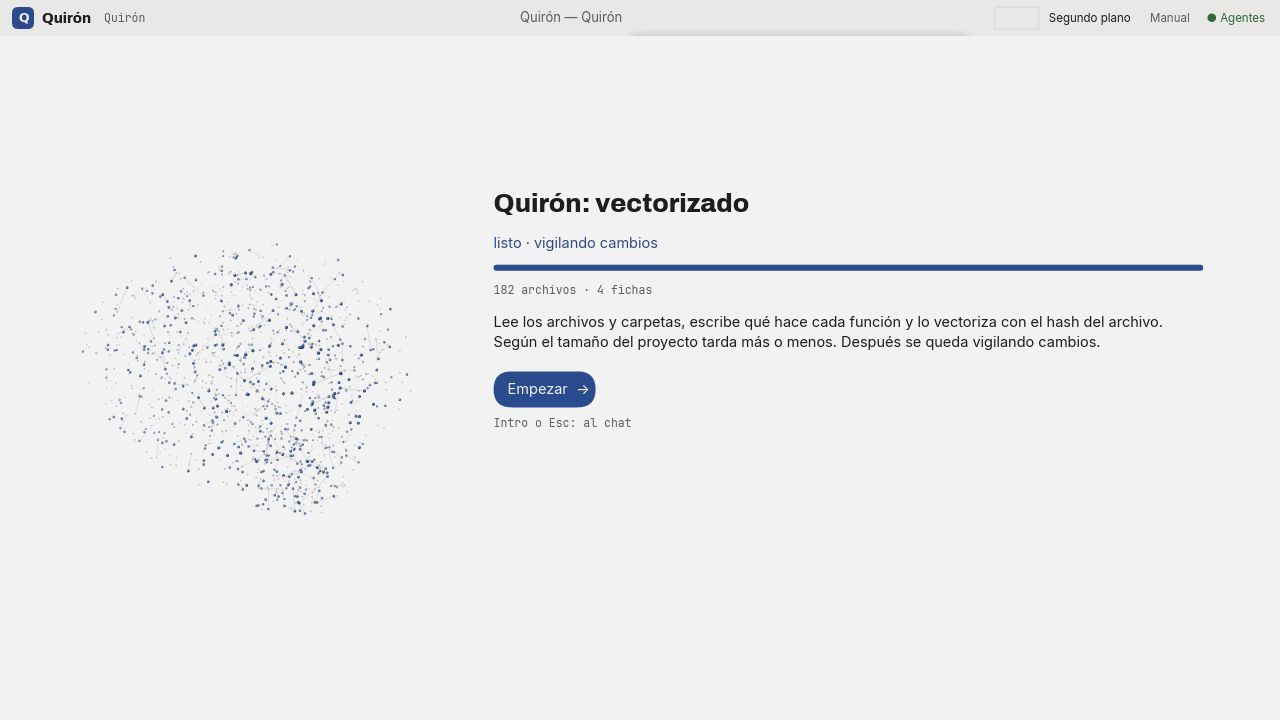
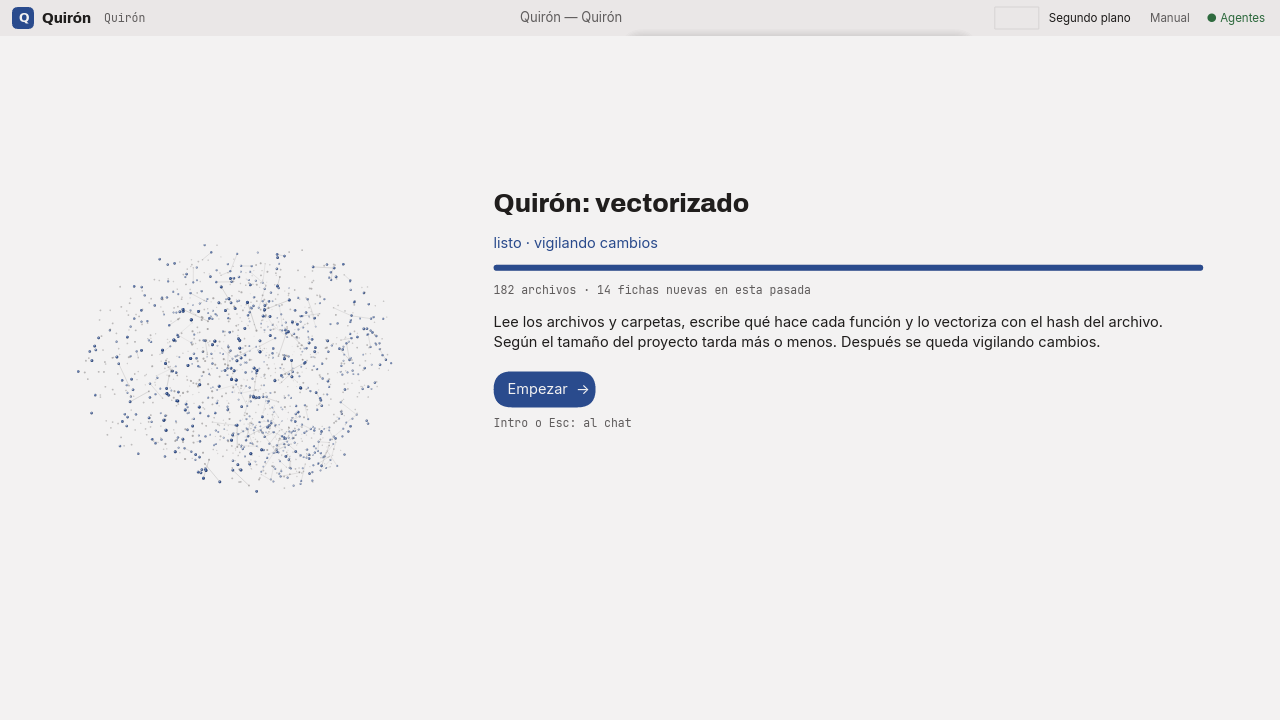
Vectorizando: el error del cerebro se enseña tal cual, y botones de cancelar y vectorizar de nuevo
- Una carpeta demasiado grande («10000 archivos / 64 MiB de texto; abre una
  subcarpeta») salía como «reintentando · 0/0»: ahora el mensaje va en rojo,
  con «Elegir otra carpeta» y «Seguir sin índice».
- «Cancelar la vectorización» para el monitor (DELETE /index/project/:id),
  el sondeo no lo reanuda solo y Segundo plano lo dice; en Agentes →
  Vectorizador, «Vectorizar» lo retoma («Vectorizar de nuevo» si va bien).
- Cliente: stop_project_index. Prueba de cancelar y reanudar. Gancho del
  arnés vectorizando-error para la captura.

Changed region(s): [[0.0625, 0.3667, 0.3125, 0.7028], [0.4688, 0.3972, 0.625, 0.4278]]

diff --git a/Quirón/llore_editor/crates/llore_ui/src/app.rs b/Quirón/llore_editor/crates/llore_ui/src/app.rs
@@ -648,6 +648,11 @@ pub enum ClickTargetAction {
     NewProjectAccept,
     NewProjectCancel,
     NewProjectContinue,
+    /// Vectorizando: cancelar la vectorización, elegir otra carpeta, o
+    /// (desde Agentes) vectorizar de nuevo.
+    NewProjectCancelIndex,
+    NewProjectPickOther,
+    IndexResume,
     Citation(Citation),
     /// Abre el archivo de una ficha de código en su primera línea.
     CodeSource(CodeHint),
@@ -2332,6 +2337,9 @@ pub struct AppState {
     /// a las que ya se dio permiso en esta sesión.
     pub new_project: Option<NewProjectScreen>,
     consented_folders: HashSet<PathBuf>,
+    /// Vectorización cancelada por el usuario: el sondeo no la reanuda hasta
+    /// que pida «Vectorizar» otra vez.
+    pub project_index_paused: bool,
     pub explorer_clipboard: Option<(PathBuf, bool)>,
     text_search_scope: Option<PathBuf>,
     /// Si el panel de telemetría en chat está visible.
@@ -2789,6 +2797,7 @@ impl AppState {
         if let Some(task) = self.project_index_task.take() { task.abort(); }
         self.project_index_progress = None;
         self.project_index_error = None;
+        self.project_index_paused = false;
         self.project_index_last_poll = Instant::now() - Duration::from_secs(5);
         self.project_id = Some(project_id.clone());
         self.set_quiron_project_id(Some(project_id));
@@ -2920,6 +2929,7 @@ impl AppState {
             context_menu: None,
             new_project: None,
             consented_folders: HashSet::new(),
+            project_index_paused: false,
             explorer_clipboard: None,
             text_search_scope: None,
             telemetry_panel_enabled: false,
@@ -5075,10 +5085,62 @@ impl AppState {
         self.needs_render = true;
     }
 
-    /// Texto del avance para la pantalla del vectorizador.
-    pub fn new_project_progress(&self) -> (String, f32, String, bool) {
+    /// «Cancelar» la vectorización: se para el monitor en el cerebro (el
+    /// índice que hubiera se conserva) y el sondeo no la reanuda solo.
+    pub fn cancel_project_index(&mut self) {
+        self.project_index_paused = true;
+        if let Some(task) = self.project_index_task.take() {
+            task.abort();
+        }
+        if let Some(project) = self.project_id.clone() {
+            if let Ok(quiron) = self.quiron.try_lock() {
+                let client = quiron.client_snapshot();
+                self.runtime.spawn(async move {
+                    let _ = client.stop_project_index(&project).await;
+                });
+            }
+        }
+        self.project_index_progress = None;
+        self.project_index_error = Some("cancelado · Agentes → Vectorizador → Vectorizar para retomarlo".to_string());
+        self.status_text = "vectorización cancelada".to_string();
+        self.needs_render = true;
+    }
+
+    /// «Vectorizar» (de nuevo): reanuda el sondeo, que vuelve a pedir el
+    /// monitor al cerebro, y enseña el avance.
+    pub fn resume_project_index(&mut self) {
+        if !self.workspace_is_open() {
+            return;
+        }
+        self.project_index_paused = false;
+        self.project_index_error = None;
+        self.project_index_progress = None;
+        self.project_index_last_poll = Instant::now() - Duration::from_secs(60);
+        self.close_overlay();
+        self.new_project = Some(NewProjectScreen {
+            folder: self.workspace_root.clone(),
+            stage: NewProjectStage::Indexing,
+            since: Instant::now(),
+        });
+        self.status_text = "vectorizando de nuevo".to_string();
+        self.needs_render = true;
+    }
+
+    /// Texto del avance para la pantalla del vectorizador: fase, fracción,
+    /// detalle, si terminó y si falló (entonces la fase es el error tal cual).
+    pub fn new_project_progress(&self) -> (String, f32, String, bool, bool) {
+        if let Some(error) = &self.project_index_error {
+            return (error.clone(), 0.0, String::new(), false, true);
+        }
         match &self.project_index_progress {
-            None => ("conectando con el cerebro…".to_string(), 0.0, String::new(), false),
+            None => ("conectando con el cerebro…".to_string(), 0.0, String::new(), false, false),
+            Some(p) if p.phase == "error" => (
+                p.error.clone().unwrap_or_else(|| "el índice falló".to_string()),
+                0.0,
+                String::new(),
+                false,
+                true,
+            ),
             Some(p) => {
                 let fase = match p.phase.as_str() {
                     "queued" => "en cola",
@@ -5087,7 +5149,7 @@ impl AppState {
                     "embedding" => "vectorizando",
                     "writing" => "guardando el mapa",
                     "watching" => "listo · vigilando cambios",
-                    "error" | "partial" => "reintentando",
+                    "partial" => "archivos pendientes · reintentando",
                     _ => "detenido",
                 };
                 let fraccion = if p.files_total > 0 { (p.files_done as f32 / p.files_total as f32).clamp(0.0, 1.0) } else { 0.0 };
@@ -5098,7 +5160,7 @@ impl AppState {
                 } else {
                     format!("{}/{} · {}", p.files_done, p.files_total, p.current_path)
                 };
-                (fase.to_string(), fraccion, detalle, p.phase == "watching")
+                (fase.to_string(), fraccion, detalle, p.phase == "watching", false)
             }
         }
     }
@@ -6517,7 +6579,7 @@ impl AppState {
                 let phase = match p.phase.as_str() {
                     "queued" => "en cola", "scanning" => "revisando", "summarizing" => "analizando lógica",
                     "embedding" => "vectorizando", "writing" => "guardando mapa", "watching" => "al día · vigilando cambios",
-                    "error" => "reintentando", "partial" => "archivos pendientes · reintentando", _ => "detenido",
+                    "error" => "error", "partial" => "archivos pendientes · reintentando", _ => "detenido",
                 };
                 if let Some(error) = &p.error { format!("índice · {phase}: {error}") }
                 else { format!("índice · {phase} · {}/{} archivos", p.files_done, p.files_total) }
@@ -6541,7 +6603,8 @@ impl AppState {
             }
         }
         #[cfg(not(test))]
-        if self.project_index_task.is_none()
+        if !self.project_index_paused
+            && self.project_index_task.is_none()
             && self.project_index_last_poll.elapsed()
                 >= if self.new_project.is_some() { Duration::from_millis(1500) } else { Duration::from_secs(5) }
         {
@@ -9304,6 +9367,23 @@ impl AppState {
         };
         if valor == "manual" {
             self.open_manual();
+            return;
+        }
+        if valor == "vectorizando-error" {
+            // Como cuando el cerebro rechaza una carpeta demasiado grande.
+            self.project_index_progress = Some(llore_brain::client::IndexProgress {
+                project_id: self.project_id.clone().unwrap_or_default(),
+                phase: "error".to_string(),
+                files_total: 0,
+                files_done: 0,
+                units_written: 0,
+                summaries_generated: 0,
+                current_path: String::new(),
+                error: Some("Proyecto demasiado grande (10000 archivos / 64 MiB de texto); abre una subcarpeta".to_string()),
+            });
+            self.project_index_paused = true;
+            self.new_project = Some(NewProjectScreen { folder: self.workspace_root.clone(), stage: NewProjectStage::Indexing, since: Instant::now() });
+            self.needs_render = true;
             return;
         }
         if valor == "nuevo-proyecto" || valor == "vectorizando" {
@@ -12160,6 +12240,17 @@ impl AppState {
                 self.set_focus(FocusTarget::ChatInput);
                 self.needs_render = true;
             }
+            ClickTargetAction::NewProjectCancelIndex => {
+                self.cancel_project_index();
+                self.new_project = None;
+                self.set_focus(FocusTarget::ChatInput);
+            }
+            ClickTargetAction::NewProjectPickOther => {
+                self.cancel_project_index();
+                self.new_project = None;
+                self.open_folder_picker();
+            }
+            ClickTargetAction::IndexResume => self.resume_project_index(),
             ClickTargetAction::Ctx(op, path) => self.explorer_op(op, path),
             ClickTargetAction::CtxClose => {
                 self.context_menu = None;
@@ -13719,8 +13810,15 @@ mod tests {
         state.new_project = Some(NewProjectScreen { folder: nueva.clone(), stage: NewProjectStage::Consent, since: Instant::now() });
         state.new_project_accept();
         assert_eq!(state.workspace_root, nueva.canonicalize().unwrap());
-        let (fase, fraccion, _, listo) = state.new_project_progress();
-        assert!(fase.contains("conectando") && fraccion == 0.0 && !listo);
+        let (fase, fraccion, _, listo, fallo) = state.new_project_progress();
+        assert!(fase.contains("conectando") && fraccion == 0.0 && !listo && !fallo);
+        // Cancelar para el sondeo y lo dice; vectorizar de nuevo lo reanuda.
+        state.cancel_project_index();
+        assert!(state.project_index_paused);
+        let (fase, _, _, _, fallo) = state.new_project_progress();
+        assert!(fallo && fase.contains("cancelado"));
+        state.resume_project_index();
+        assert!(!state.project_index_paused && state.new_project.is_some());
     }
 
     #[test]

diff --git a/Quirón/llore_editor/crates/llore_ui/src/bin/llore_gui.rs b/Quirón/llore_editor/crates/llore_ui/src/bin/llore_gui.rs
@@ -3052,15 +3052,21 @@ fn render_new_project(canvas: &mut Canvas, state: &mut AppState, bounds: Bounds,
             state.text_system.draw_buffer(canvas, &pista, x, y + 20.0, Color::from_hex(palette.text_muted));
         }
         NewProjectStage::Indexing => {
-            let (fase, fraccion, detalle, listo) = state.new_project_progress();
+            let (fase, fraccion, detalle, listo, fallo) = state.new_project_progress();
             let titulo = state.text_system.create_heading_buffer(
-                &if listo { format!("{nombre}: vectorizado") } else { format!("Vectorizando {nombre}") },
+                &if fallo {
+                    format!("No se pudo vectorizar {nombre}")
+                } else if listo {
+                    format!("{nombre}: vectorizado")
+                } else {
+                    format!("Vectorizando {nombre}")
+                },
                 26.0,
                 ancho,
             );
             state.text_system.draw_buffer(canvas, &titulo, x, y + 26.0, Color::from_hex(palette.text));
             y += 48.0;
-            parrafo(state, canvas, &fase, design::type_scale::MD, Color::from_hex(palette.accent), &mut y);
+            parrafo(state, canvas, &fase, design::type_scale::MD, Color::from_hex(if fallo { palette.error } else { palette.accent }), &mut y);
             let barra = Bounds::new(x, y, ancho, 6.0);
             canvas.fill_rounded_rect(barra, 3.0, Color::from_hex(palette.border));
             if fraccion > 0.0 {
@@ -3072,8 +3078,17 @@ fn render_new_project(canvas: &mut Canvas, state: &mut AppState, bounds: Bounds,
             y += 30.0;
             parrafo(state, canvas, "Lee los archivos y carpetas, escribe qué hace cada función y lo vectoriza con el hash del archivo. Según el tamaño del proyecto tarda más o menos. Después se queda vigilando cambios.", design::type_scale::MD, Color::from_hex(palette.text), &mut y);
             y += 8.0;
-            let texto = if listo { "Empezar  →" } else { "Ir al chat (sigue en segundo plano)  →" };
-            boton(state, canvas, texto, x, y, true, ClickTargetAction::NewProjectContinue);
+            if fallo {
+                // La carpeta no vale como proyecto (o se canceló): otra carpeta,
+                // o seguir con el chat sin índice.
+                let w = boton(state, canvas, "Elegir otra carpeta  →", x, y, true, ClickTargetAction::NewProjectPickOther);
+                boton(state, canvas, "Seguir sin índice", x + w + 12.0, y, false, ClickTargetAction::NewProjectContinue);
+            } else if listo {
+                boton(state, canvas, "Empezar  →", x, y, true, ClickTargetAction::NewProjectContinue);
+            } else {
+                let w = boton(state, canvas, "Ir al chat (sigue en segundo plano)  →", x, y, true, ClickTargetAction::NewProjectContinue);
+                boton(state, canvas, "Cancelar la vectorización", x + w + 12.0, y, false, ClickTargetAction::NewProjectCancelIndex);
+            }
             y += 36.0;
             let pista = state.text_system.create_code_buffer("Intro o Esc: al chat", design::type_scale::XS, ancho);
             state.text_system.draw_buffer(canvas, &pista, x, y + 20.0, Color::from_hex(palette.text_muted));
@@ -3414,13 +3429,17 @@ fn render_agents_overlay(
                 (format!("{} · {marcha}", truncate_chars(&p.worker_current, 34)), p.worker_running)
             }
         };
+        let mut acciones_worker = vec![
+            ("Modelos", ClickTargetAction::AgentWorkerPick),
+            ("Añadir .gguf…", ClickTargetAction::AgentWorkerAddFile),
+        ];
+        if state.workspace_is_open() {
+            acciones_worker.push((if state.project_index_paused { "Vectorizar" } else { "Vectorizar de nuevo" }, ClickTargetAction::IndexResume));
+        }
         dibujar_tarjeta_agente(
             canvas, state, palette, Bounds::new(cx, cy, columna, tarjeta_h),
             "Vectorizador (worker)", "lee el proyecto, escribe qué hace cada función y vectoriza", &estado, ok, false,
-            vec![
-                ("Modelos", ClickTargetAction::AgentWorkerPick),
-                ("Añadir .gguf…", ClickTargetAction::AgentWorkerAddFile),
-            ],
+            acciones_worker,
         );
         y += cuerpo_h;
     }

diff --git a/Quirón/llore_editor/crates/llore_brain/src/client.rs b/Quirón/llore_editor/crates/llore_brain/src/client.rs
@@ -94,6 +94,27 @@ impl QuironClient {
             &serde_json::json!({"root":root,"project_id":project_id})).await
     }
 
+    /// Pide al cerebro que pare el monitor del proyecto (conserva el índice).
+    pub async fn stop_project_index(&self, project_id: &str) -> Result<(), ClientError> {
+        let client = reqwest::Client::builder()
+            .timeout(self.timeout)
+            .build()
+            .map_err(|e| ClientError::Transport(e.to_string()))?;
+        let response = client.delete(format!("{}/index/project/{}", self.base_url, project_id));
+        let response = self
+            .apply_auth(response)
+            .send()
+            .await
+            .map_err(|e| ClientError::Transport(e.to_string()))?;
+        if !response.status().is_success() {
+            return Err(ClientError::Http {
+                status: response.status().as_u16(),
+                message: response.text().await.unwrap_or_default(),
+            });
+        }
+        Ok(())
+    }
+
     /// Obtener contexto de startup (identidad, gates, eventos recientes)
     pub async fn get_context(&self) -> Result<ContextResponse, ClientError> {
         let url = format!("{}/context", self.base_url);

diff --git a/docs/MANUAL.md b/docs/MANUAL.md
@@ -89,7 +89,13 @@ está en marcha y permite cambiarlo:
   crea la identidad del proyecto en `.llore/` y la pantalla enseña la mente
   vectorial girando con el avance: fase, archivos leídos, archivo actual y
   fichas escritas. Según el tamaño del proyecto tarda más o menos; «Ir al
-  chat» deja la vectorización en segundo plano. Cancelar no crea nada.
+  chat» deja la vectorización en segundo plano y «Cancelar la vectorización»
+  la para (el chat sigue, sin fichas; se retoma en Agentes → Vectorizador →
+  Vectorizar). Cancelar en la pantalla de permiso no crea nada.
+- Hay un tope: 10 000 archivos o 64 MiB de texto por proyecto. Una carpeta
+  con muchos proyectos dentro (por ejemplo `~/Projects`) lo supera; la
+  pantalla lo dice tal cual y ofrece elegir otra carpeta. Abre el proyecto
+  concreto, no la carpeta que los contiene.
 - Pregunta en el chat como preguntarías a alguien que conoce el proyecto:
   «¿dónde se comprueba el hash antes de devolver un acierto?». La respuesta
   cita fichas; cada ficha lleva a su línea.

diff --git a/docs/CIERRE_2026-09-05.md b/docs/CIERRE_2026-09-05.md
@@ -933,4 +933,14 @@ menos.»
 - Capturas: `evidencias/2026-09-05/gui-proyecto-permiso/` y
   `gui-proyecto-vectorizando/`. Prueba: sin ventana no hay pantalla y se crea
   la identidad; cancelar no abre; aceptar abre la carpeta pedida.
+- **Revisión del autor con `~/Projects` (53 000 archivos, 8 GB):** la pantalla
+  decía «reintentando · 0/0» porque el cerebro había rechazado la carpeta
+  («Proyecto demasiado grande (10000 archivos / 64 MiB de texto); abre una
+  subcarpeta») y la fase `error` se traducía a «reintentando» sin enseñar el
+  mensaje. Ahora el error sale tal cual, en rojo, con «Elegir otra carpeta» y
+  «Seguir sin índice». Y el botón que faltaba: **«Cancelar la vectorización»**
+  para el monitor en el cerebro (`DELETE /index/project/:id`), el sondeo no
+  lo reanuda solo, Segundo plano dice «cancelado», y en Agentes →
+  Vectorizador aparece «Vectorizar» para retomarlo (o «Vectorizar de nuevo»
+  cuando va bien). Prueba: cancelar para y lo dice; vectorizar reanuda.
 
